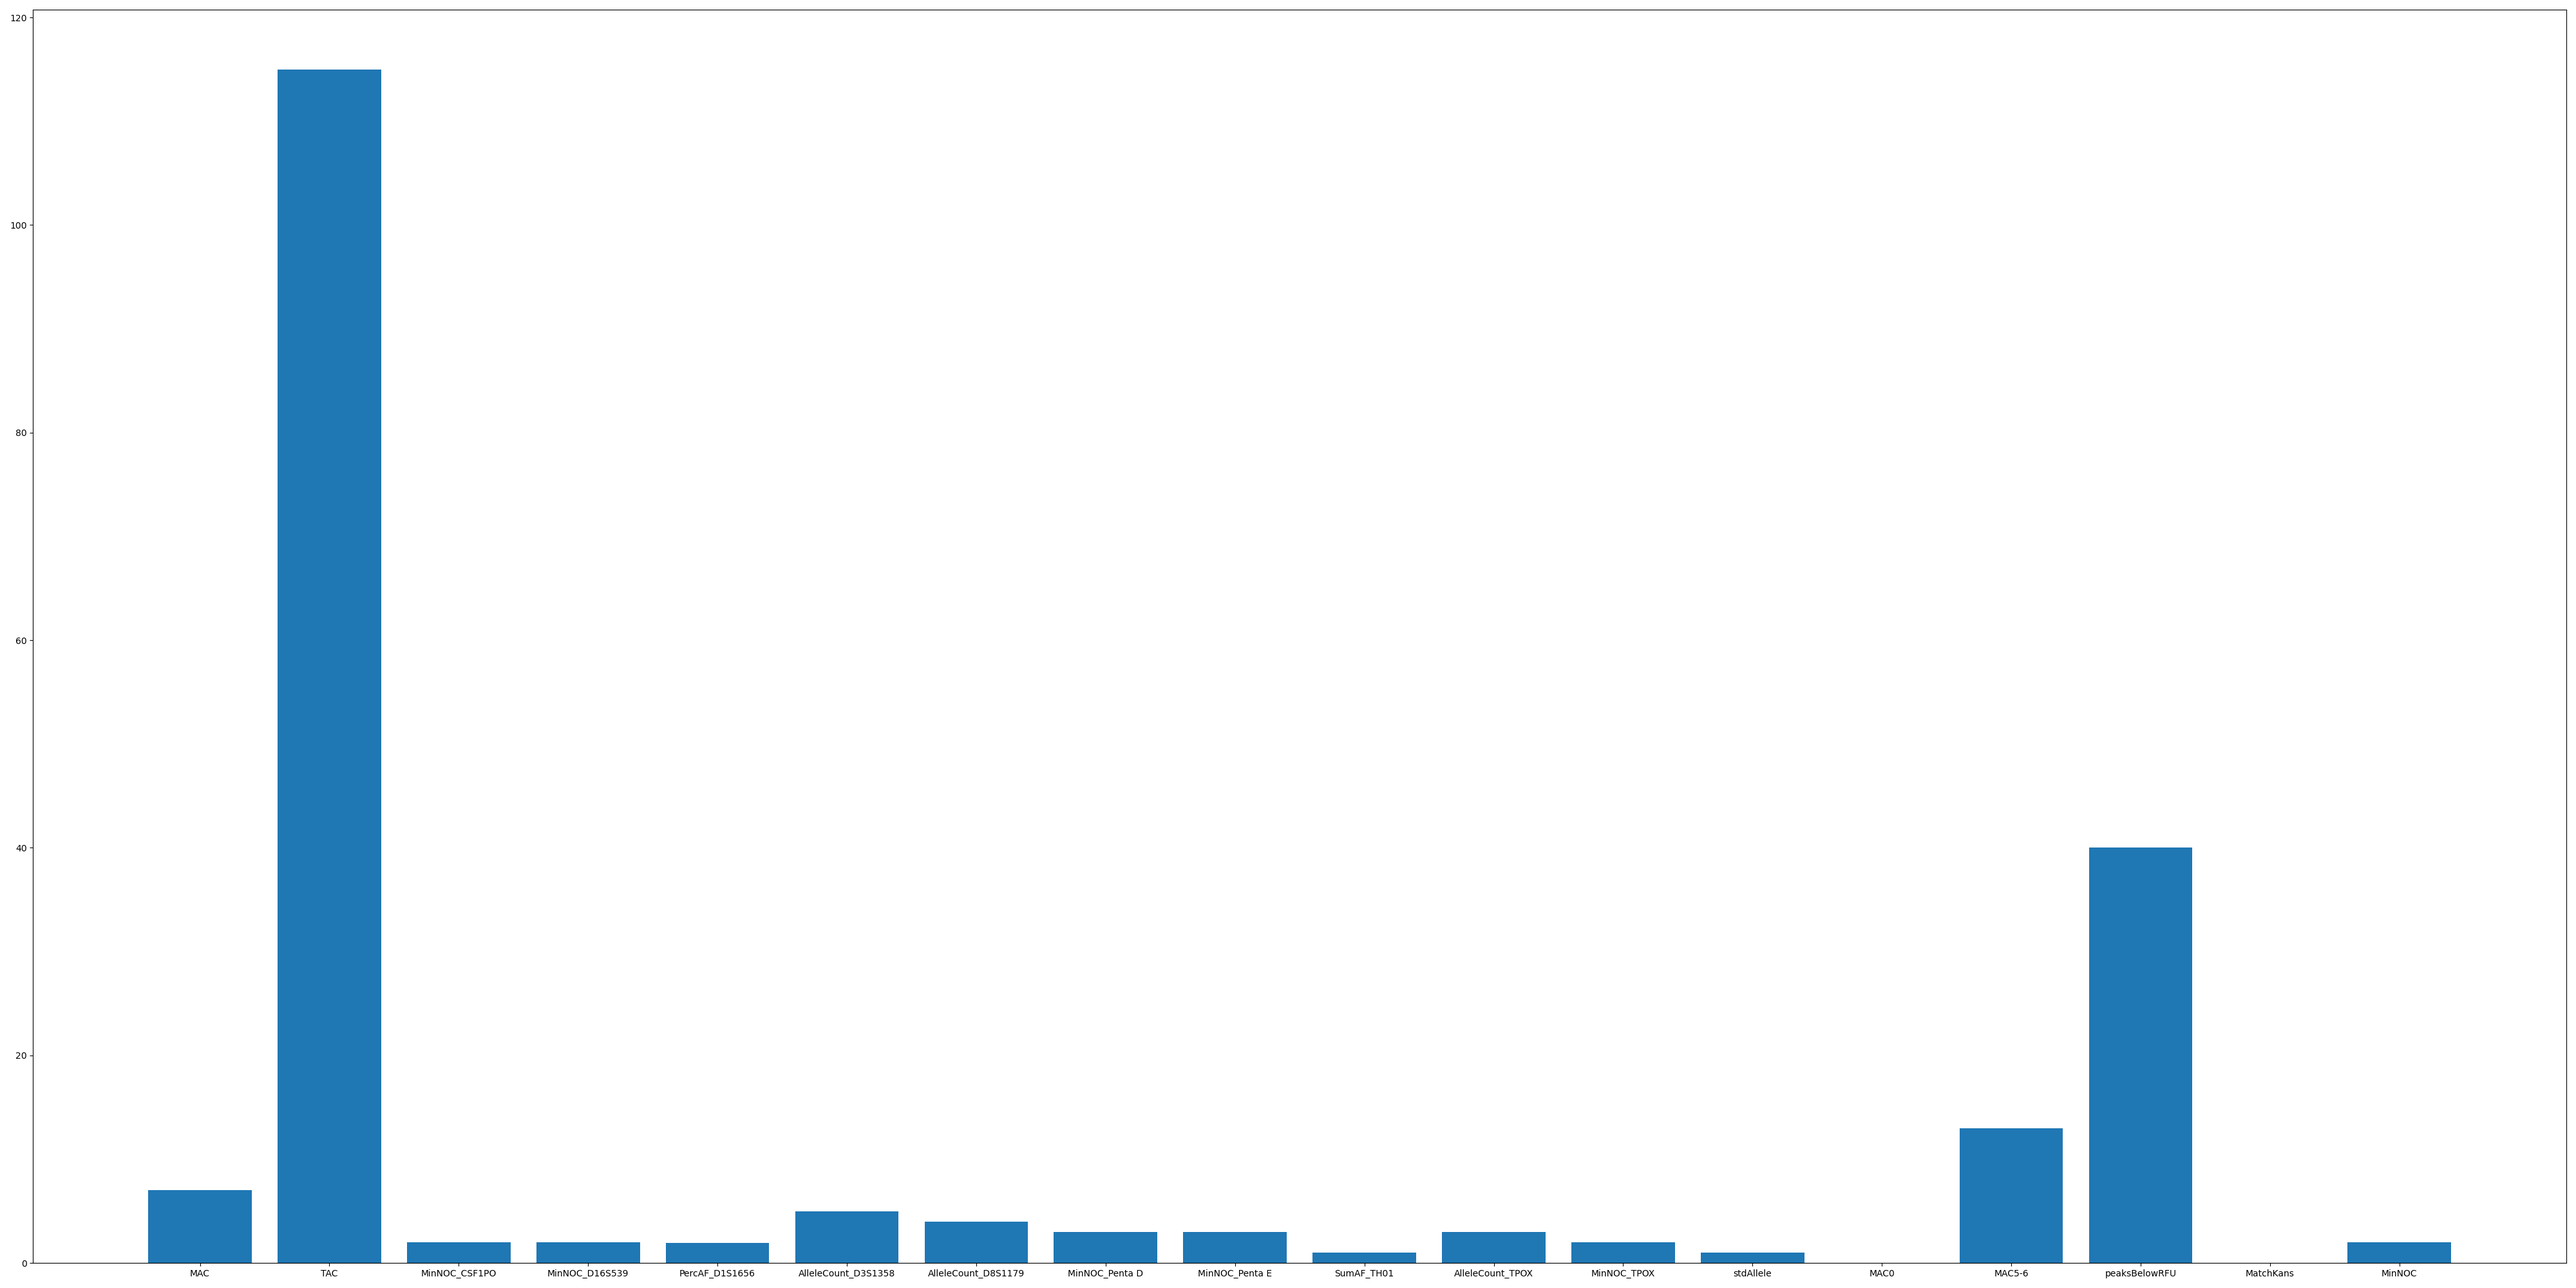
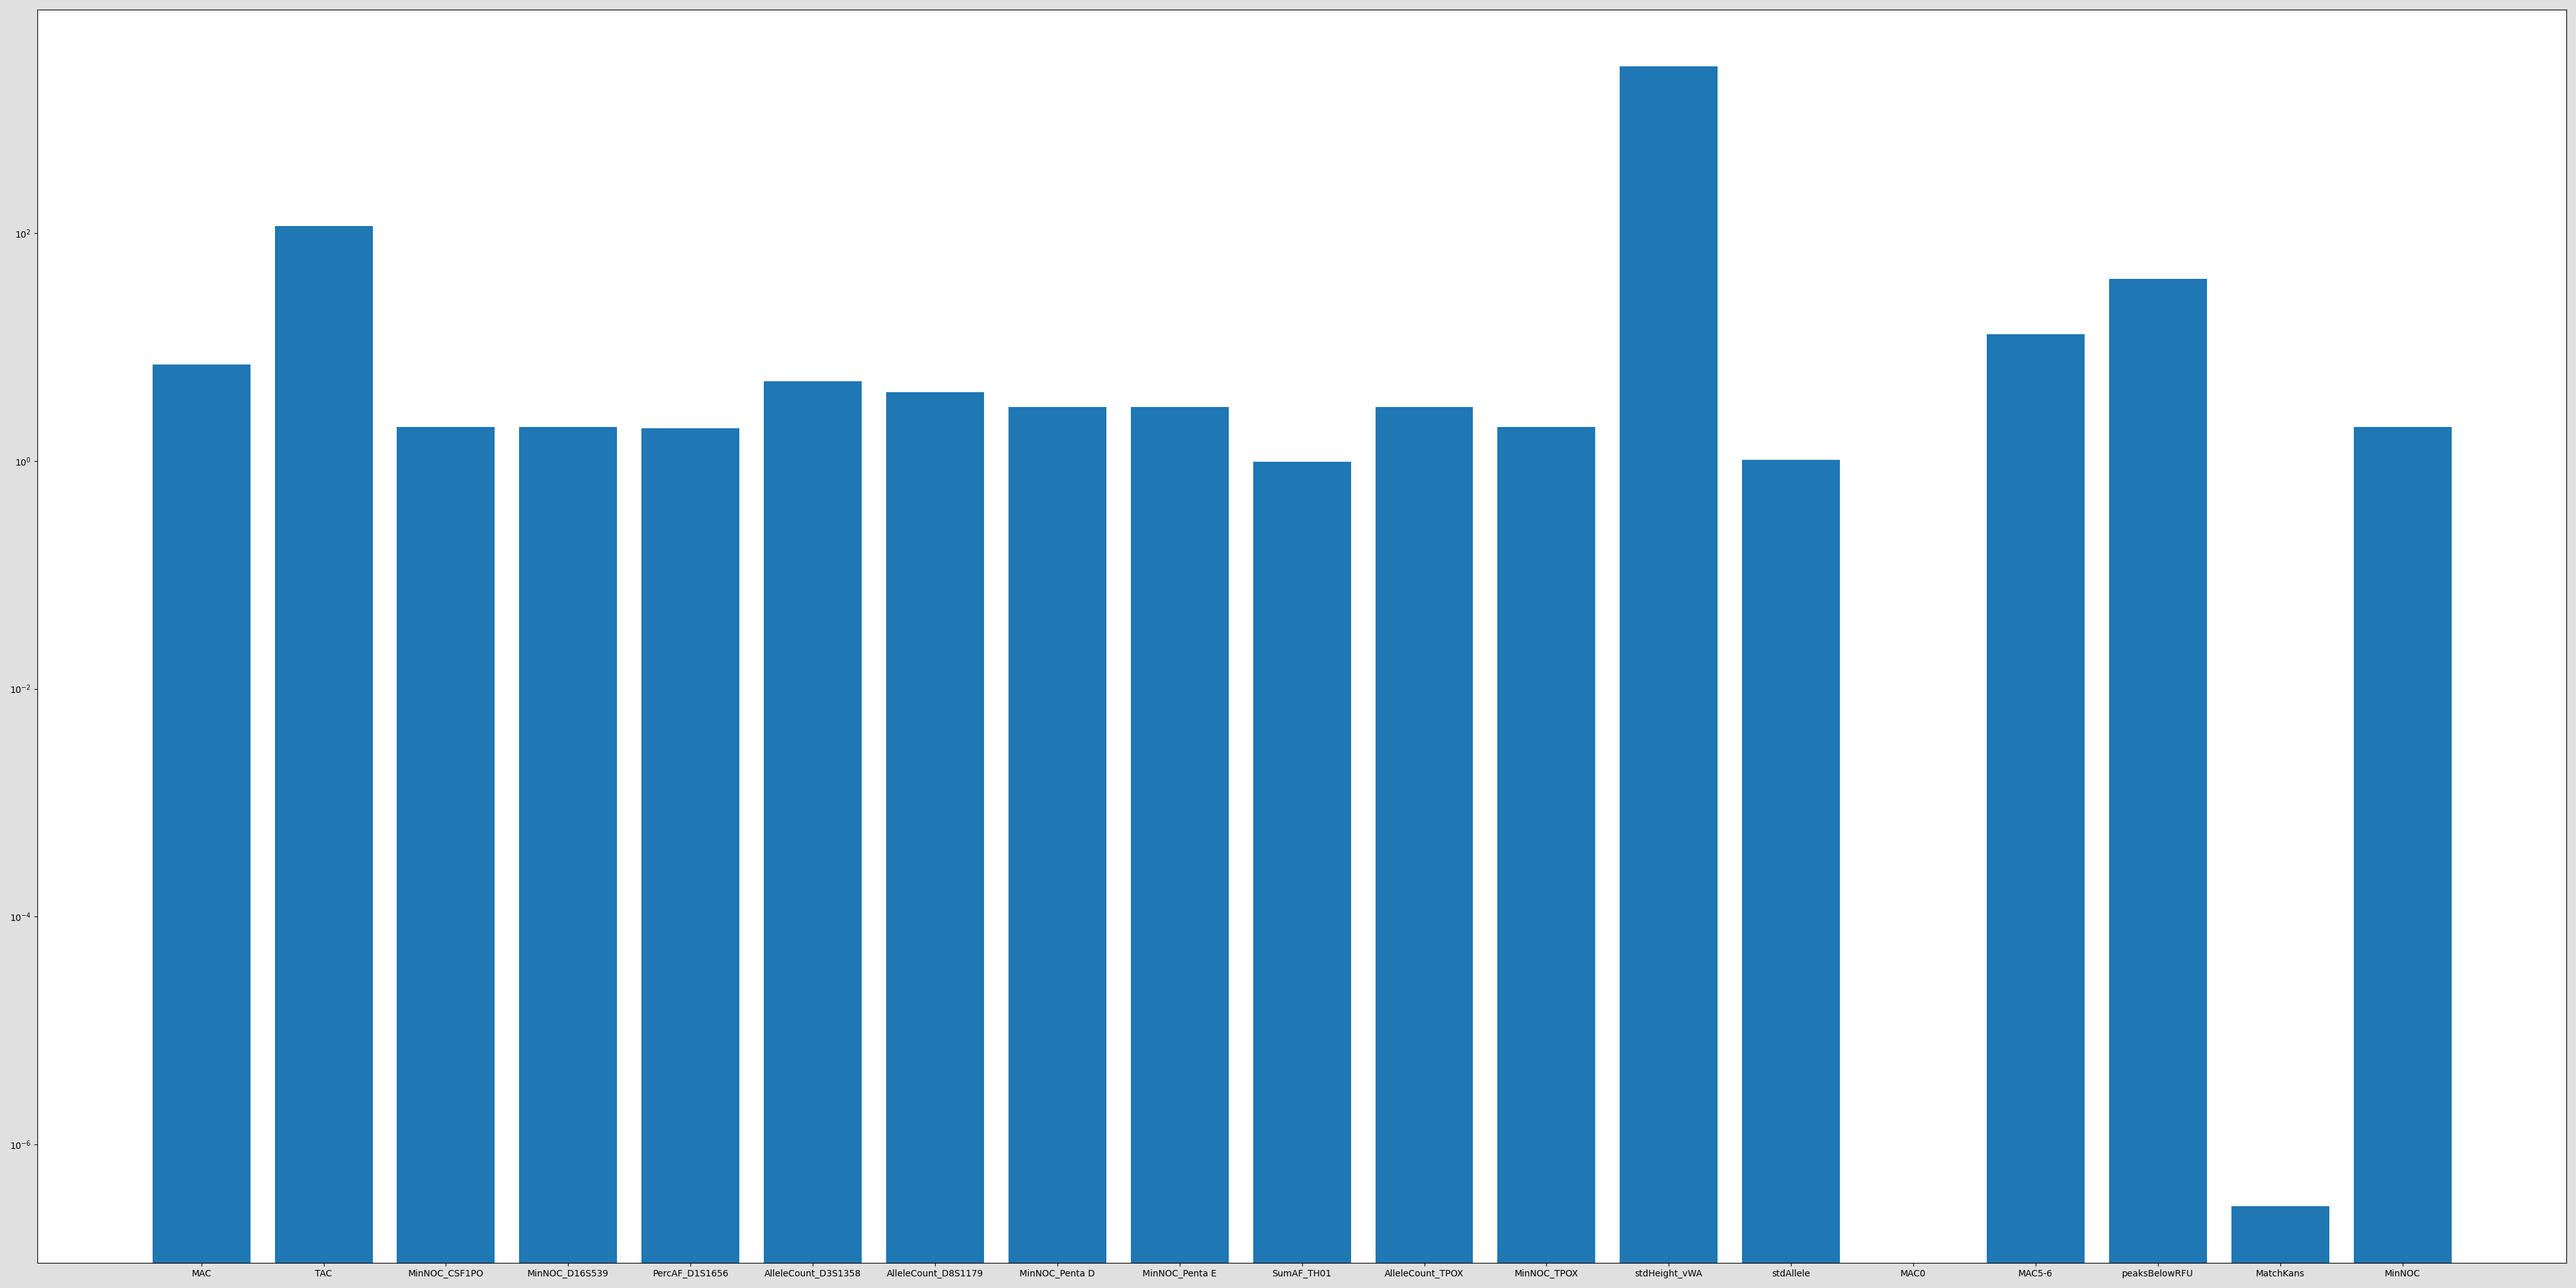
Add regression predictor, display the change w.r.t. counterfactual

diff --git a/code/counterfactual.py b/code/counterfactual.py
@@ -36,7 +36,17 @@ class CounterfactualGenerator:
                                   name=candidate.name)
             candidate_scores = candidate_scores.append(new_row)
         
-        self.get_non_dominated(candidate_scores)
+        non_dominated = self.get_non_dominated(candidate_scores)
+        
+        for i in non_dominated:
+            cost = candidate_scores.loc[i]
+            if cost['target_score'] == 0:
+                print("counterfactual option ", i, "with distance from " ,
+                    current_X.name, "of: ", cost['distance_score'], "and ", 
+                    cost['features_changed'], "features changed")
+
+                diff = self.calculate_differences(self.candidates.loc[i], current_X)
+                print("with differences: ", diff)
 
         #candidate_scores.sort_values(by=['target_score', 'distance_score', 
         #                                 'features_changed'], inplace = True)
@@ -74,51 +84,16 @@ class CounterfactualGenerator:
                 non_dominated_set.append(label)
             i+=1
         
-        print(non_dominated_set)
-        for i in non_dominated_set:
-            print(costs.loc[i])
+        return non_dominated_set
 
+    def calculate_differences(self, counterfactual, current_X):
+        mask = counterfactual.index.isin(['NOC'])
+        counterfactual = counterfactual.loc[~mask]
+        counterfactual.rename({counterfactual.name:current_X.name}, inplace=True)
 
-    # def dominates(self, obj1, obj2, sign=[-1, -1]):
-    #     dominates = False
-    #     for a, b, sign in zip(obj1, obj2, sign):
-    #         if a * sign > b * sign:
-    #             dominates = True
-    #         # if one of the objectives is dominated, then return False
-    #         elif a * sign < b * sign:
-    #             return False
-    #     return dominates
-
-    # def sortNondominated(candidates, k=None, first_front_only=True):
-    #     if k is None:
-    #         k = len(candidates)
-
-    #     # Use objectives as keys to make python dictionary
-    #     map_fit_ind = defaultdict(list)
-    #     for i, f_value in enumerate(fitness):  # fitness = [(1, 2), (2, 2), (3, 1), (1, 4), (1, 1)...]
-    #         map_fit_ind[f_value].append(i)
-    #     fits = list(map_fit_ind.keys())  # fitness values
-
-    #     current_front = []
-    #     next_front = []
-    #     dominating_fits = defaultdict(int)  # n (The number of people dominate you)
-    #     dominated_fits = defaultdict(list)  # Sp (The people you dominate)
-
-    #     # Rank first Pareto front
-    #     # *fits* is a iterable list of chromosomes. Each has multiple objectives.
-    #     for i, fit_i in enumerate(fits):
-    #         for fit_j in fits[i + 1:]:
-    #             # Eventhougn equals or empty list, n & Sp won't be affected
-    #             if dominates(fit_i, fit_j):
-    #                 dominating_fits[fit_j] += 1  
-    #                 dominated_fits[fit_i].append(fit_j)  
-    #             elif dominates(fit_j, fit_i):  
-    #                 dominating_fits[fit_i] += 1
-    #                 dominated_fits[fit_j].append(fit_i)
-    #         if dominating_fits[fit_i] == 0: 
-    #             current_front.append(fit_i)
-
-    #     fronts = [[]]  # The first front
-    #     for fit in current_front:
-    #         fronts[-1].extend(map_fit_ind[fit])
-    #     pareto_sorted = len(fronts[-1])
+        change = counterfactual.compare(current_X)
+        
+        diff_column = abs(change["self"] - change["other"])
+        change["difference"] = diff_column
+        
+        return change

diff --git a/code/predictions.py b/code/predictions.py
@@ -1,6 +1,7 @@
 import numpy as np
 import pandas as pd
 from sklearn.ensemble import RandomForestClassifier
+from sklearn.ensemble import RandomForestRegressor
 from test import DataAnalyzer
 
 class Predictor:
@@ -17,7 +18,13 @@ class Predictor:
     def define_and_fit(self):
         raise NotImplementedError
 
-    def get_new_prediction(self, x):
+    def get_top2_predictions(self, x):
+        """
+        Paramters:
+            x: the input value
+        Returns:
+            tuple of floats: (first predicted class, secondary class)
+        """
         raise NotImplementedError
 
     def get_instances_predicted_as(self, desired_noc):
@@ -54,8 +61,51 @@ class RF19Predictor(Predictor):
         self.model.fit(self.X_train, self.y_train)
         self.y_pred = self.model.predict(self.X_train)
 
-    def get_new_prediction(self, x):
-        return self.model.predict(x.values.reshape(1, -1))
+    def get_top2_predictions(self, x):
+        probs = self.model.predict_proba(x.values.reshape(1, -1))[0]
+
+        highest_prob = np.max(probs)
+        top_pred = np.where(probs == highest_prob)[0][0] + 1# convert index to class
+
+        second_highest_prob = 0
+        second_pred = None
+        for i in range(probs.size):
+            if probs[i] > second_highest_prob and probs[i] < highest_prob:
+                second_highest_prob = probs[i]
+                second_pred = i + 1
+
+        return float(top_pred), float(second_pred)
+
+    def get_instances_predicted_as(self, desired_noc):
+        return self.X_train.loc[self.y_pred == desired_noc]
+
+
+class RF19RPredictor(Predictor):
+
+    def __init__(self, X_train, y_train):
+        super().__init__(X_train, y_train)
+        self.define_and_fit()
+
+    def define_and_fit(self):
+
+        self.model = RandomForestRegressor(bootstrap=True, max_depth=None, 
+                                           max_features='sqrt', 
+                                           min_samples_leaf=1, 
+                                           min_samples_split=2, 
+                                           n_estimators=200)
+
+        self.model.fit(self.X_train, self.y_train)
+        self.y_pred = self.model.predict(self.X_train)
+
+    def get_top2_predictions(self, x):
+        
+        current_y = self.model.predict(x.values.reshape(1, -1))[0]
+        
+        rounded_y = current_y.round()
+        if rounded_y > current_y: # e.g. 3.8 is rounded to 4.0, 2nd is 3.0
+            return rounded_y, rounded_y - 1
+        else:                     # e.g. 4.2 is rounded to 4.0, 2nd is 5.0
+            return rounded_y, rounded_y + 1
 
     def get_instances_predicted_as(self, desired_noc):
         return self.X_train.loc[self.y_pred == desired_noc]

diff --git a/code/main.py b/code/main.py
@@ -1,5 +1,6 @@
 from data import DataReader19Features
 from predictions import RF19Predictor
+from predictions import RF19RPredictor
 from counterfactual import CounterfactualGenerator
 from collections import Counter
 
@@ -7,22 +8,33 @@ file_path = r"D:\Documenten\TUdelft\thesis\mep_veldhuis\data\Features590.txt"
 data_reader = DataReader19Features(file_path, 0.2)
 
 X_train, X_test, y_train, y_test = data_reader.get_split_data()
-print("training data X of shape: ", X_train.shape)
-print("training data y of shape: ", y_train.shape)
-print("testing data X of shape: ", X_test.shape)
-print("testing data y of shape: ", y_test.shape)
-print("training data has these counts per class: ", Counter(y_train))
-print("testing data has these counts per class: ", Counter(y_test))
+print("training data X: ", X_train.shape, "y: ", y_train.shape)
+print("testing data X: ", X_test.shape, "y: ", y_test.shape)
+#print("training data has these counts per class: ", Counter(y_train))
+#print("testing data has these counts per class: ", Counter(y_test))
 
 predictor = RF19Predictor(X_train, y_train)
+regressor = RF19RPredictor(X_train, y_train)
+
+counterfactual_generator_reg = CounterfactualGenerator(regressor)
+counterfactual_generator_class = CounterfactualGenerator(predictor)
 
 current_X = X_test.iloc[0]
-current_y = predictor.get_new_prediction(X_test.iloc[0])
-print("Generating counterfactuals for :", current_X)
-print("With prediction :", current_y)
+current_y_reg, target_y_reg = regressor.get_top2_predictions(current_X)
+print("Generating counterfactuals for :", current_X.name)
+print("With prediction :", current_y_reg, 
+      "And secondary prediction :", target_y_reg)
+counterfactual_generator_reg.calculate_counterfactuals(current_X, 
+                                                       current_y_reg, 
+                                                       target_y_reg)
 
-counterfactual_generator = CounterfactualGenerator(predictor)
-counterfactual_generator.calculate_counterfactuals(current_X, current_y, 3.0)
+current_y_class, target_y_class = predictor.get_top2_predictions(current_X)
+print("Generating counterfactuals for profile :", current_X.name)
+print("With prediction :", current_y_class, 
+      "And secondary prediction :", target_y_class)
+counterfactual_generator_class.calculate_counterfactuals(current_X, 
+                                                         current_y_class, 
+                                                         target_y_class)                                                   
+
 data_reader.plot_instance(current_X.name)
-data_reader.plot_instance("3.13")
-data_reader.plot_instance("3.34")
+data_reader.plot_instance("5.02")

diff --git a/code/data.py b/code/data.py
@@ -88,12 +88,16 @@ class DataReader19Features(DataReader):
         self.y = data['NOC'].astype(float)
 
     def plot_instance(self, name):
-        dropped = self.X.drop(columns=['stdHeight_vWA'])
-        sample = dropped.loc[name,:]
-        columns = dropped.columns
+        sample = self.X.loc[name,:]
+        columns = self.X.columns
+
         fig, ax = plt.subplots(figsize=(40, 20), tight_layout=True)
+        fig.patch.set_facecolor('#E0E0E0')
+
         ax.bar(columns, sample)
-        plt.savefig(name+".png")
+        plt.yscale('log')
+
+        plt.savefig(name+".png", facecolor=fig.get_facecolor())
 
 class DataAnalyzer:
     X = None
@@ -104,10 +108,11 @@ class DataAnalyzer:
         self.y = data_reader.y
 
     def plot_feature_correlations(self):
-        plt.figure(figsize=(40,20))
+        fig = plt.figure(figsize=(40,20))
+        fig.patch.set_facecolor('#E0E0E0')
         sns.heatmap(self.X.astype(float).corr(),linewidths=0.1,vmax=1.0, 
                     square=True, linecolor='white', annot=True)
-        plt.savefig("correlations.png")
+        plt.savefig("correlations.png", facecolor=fig.get_facecolor())
         plt.show()
 
     def plot_lda(self):
